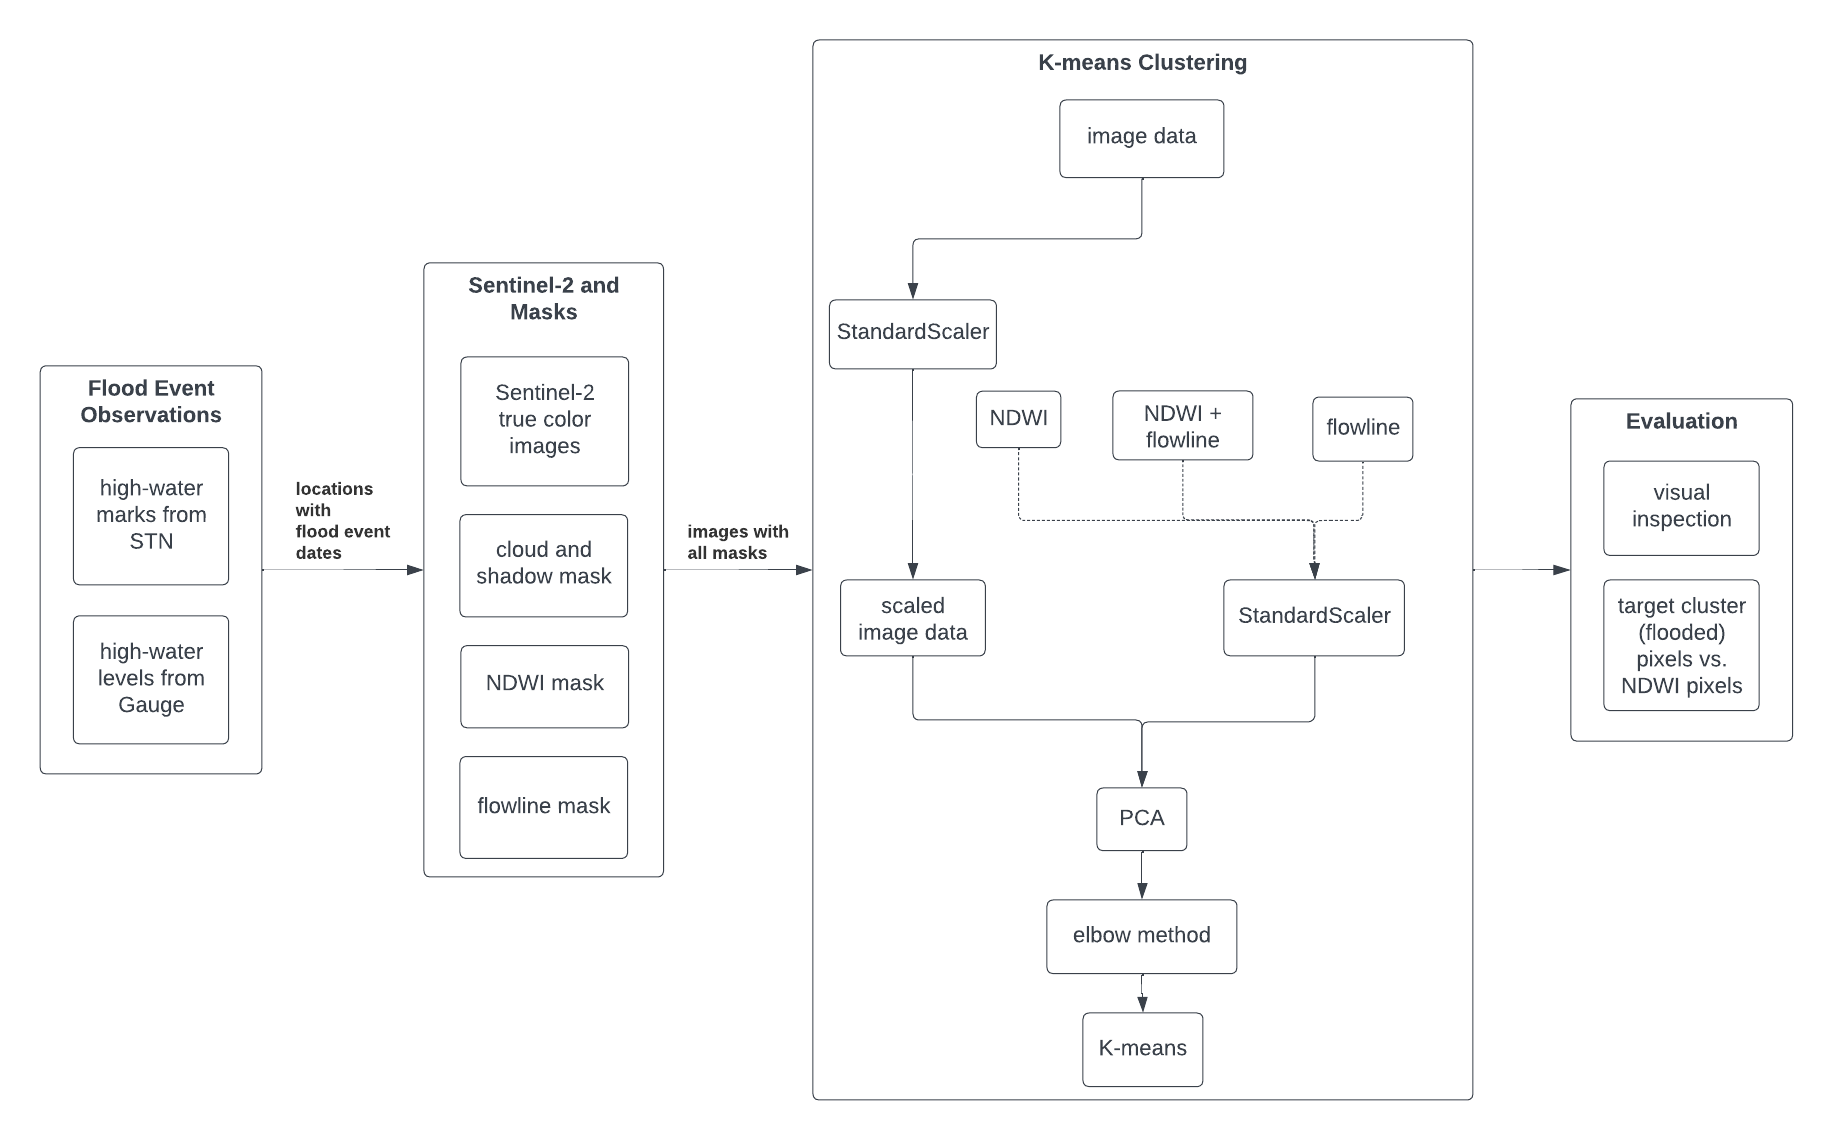
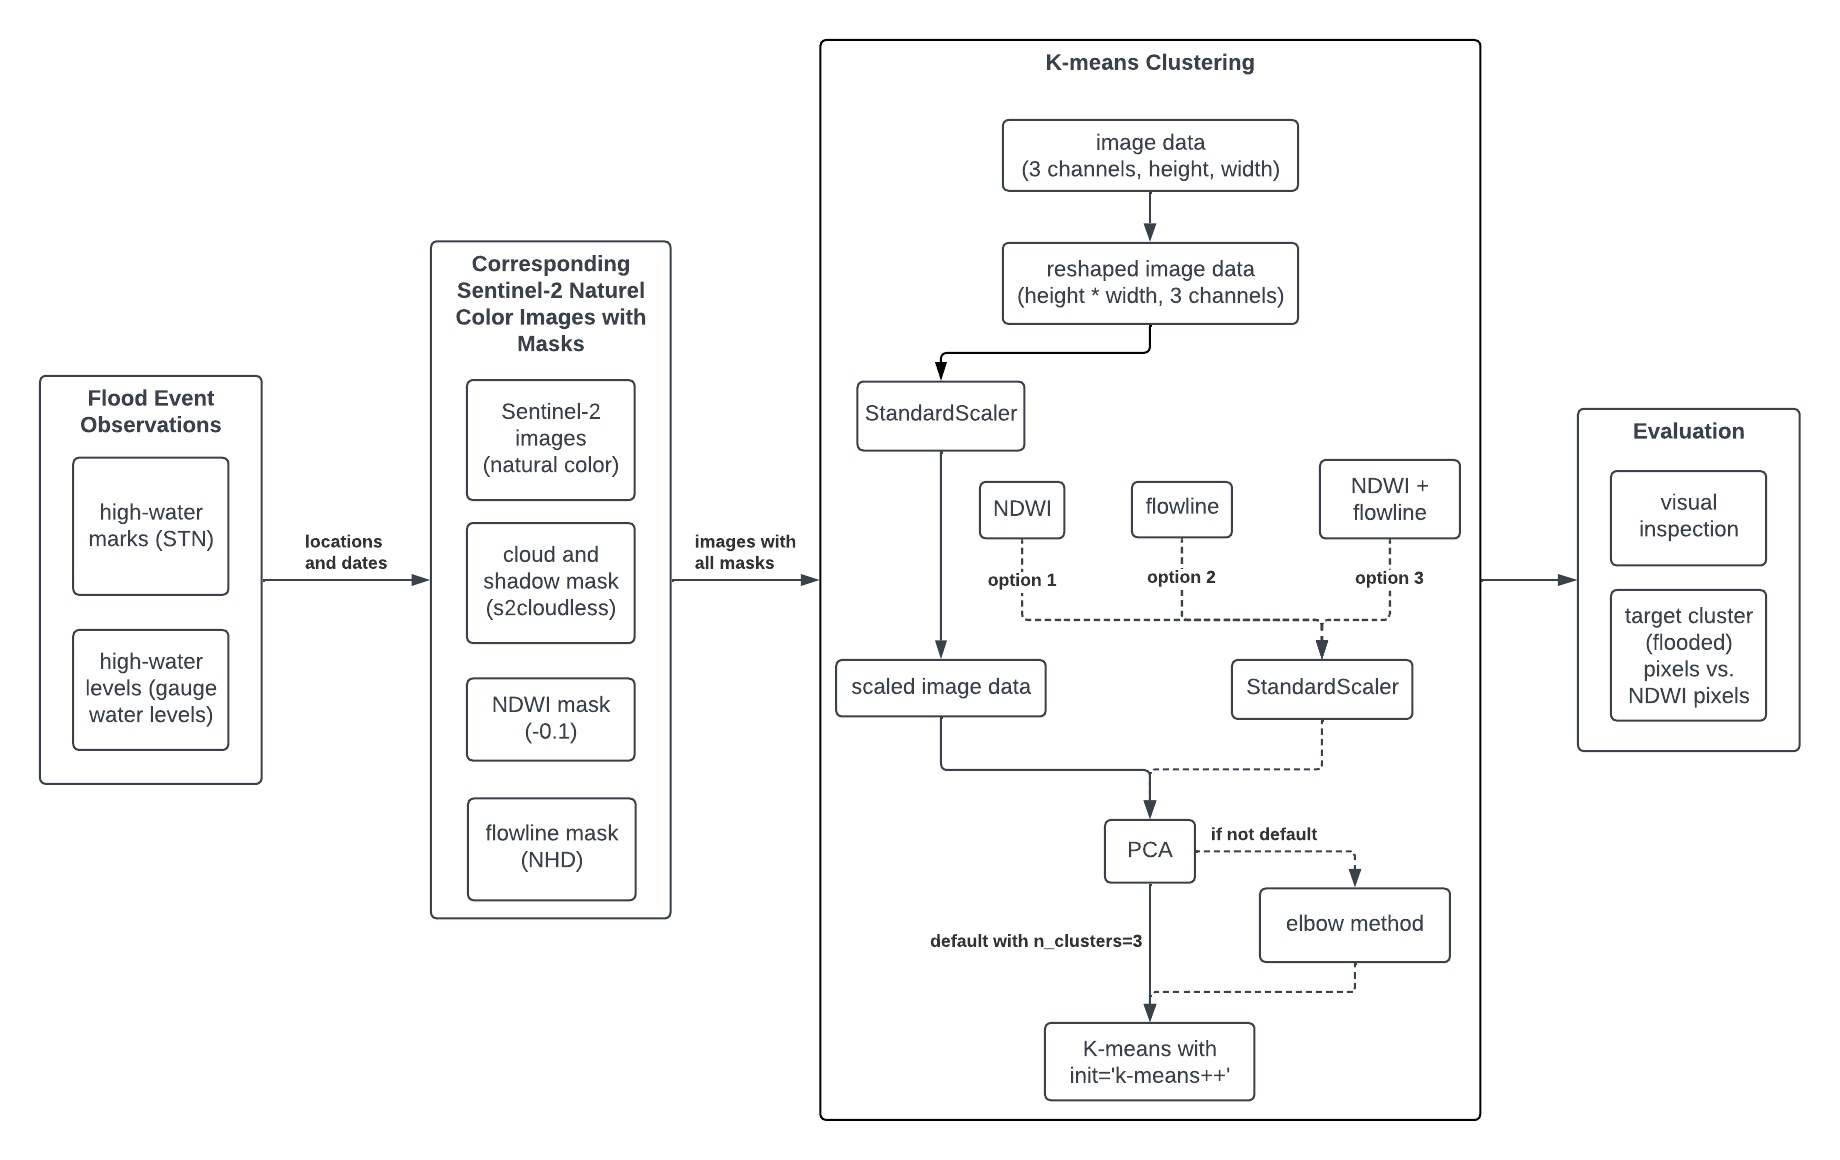
workflow update

diff --git a/src/utils/kmeans_utils.py b/src/utils/kmeans_utils.py
@@ -108,7 +108,7 @@ def add_image_data(df):
             image_path = os.path.join(row['dir'], row['filename'])
             ndwi_path = os.path.join(row['dir_ndwi'], row['filename_ndwi'])
             cloud_path = os.path.join(row['dir_cloud'], row['filename_cloud'])
-            sat_image, bounds, tiff_crs, transform, _  = read_tif(image_path) # shape (3, 1200, 1195) <- (channels, height, width)
+            sat_image, bounds, tiff_crs, transform, _  = read_tif(image_path) # example shape (3, 1201, 1195) <- (channels, height, width)
             ndwi_mask, _, _, _, _ = read_tif(ndwi_path)
             ndwi_mask = global_utils.read_ndwi_tif(ndwi_path)
             ndwi_mask = global_utils.apply_cloud_mask(ndwi_mask, cloud_path)

diff --git a/REPORT.md b/REPORT.md
@@ -1,7 +1,13 @@
-# Report
-This project focus on developing an algorithm for automated assessment of inland flooding from satellite observations. Specifically, this algorithm collects satellite images corresponding to before-, during-, and after-flood events and applies the K-means clustering technique to identify flooded areas. While the project initially targeted Maine, it has been expanded to include other states with similar flood characteristics due to limited observations in Maine.
+# Report - Automated Assessment of Inland Flooding From Satellite Observations
+This project focuses on developing an algorithm for automated assessment of inland flooding from satellite observations. Specifically, this algorithm collects satellite images before/during/after flood events and applies the K-means clustering algorithm to identify flooded areas. Satellite data is a straightforward method for observing flooded areas. Sentinel-2, with its 10-meter resolution, enables detailed analysis. Although weather conditions during flood events can be challenging, this project explores the possibility of utilizing satellite imagery and applying a machine learning algorithm named K-means clustering algorithm to automatically identify flooded areas. Additionally, this approach aims to offer insights into enhancing flood detection using drone measurements.  
 
-The ultimate goal is to enhance the accuracy of flooded area assessments, with potential applications in enhancing flood detection using drone measurements.
+**Area of Interests**: The project initially targeted Maine, but due to limited flood event observations in Maine, it has been expanded to include other states in the New England Region (primarily Vermont) which shares similar flood characteristics.
+
+## Method
+1. Collect flood event data from two sources: high-water marks available through the USGS STN Flood Event Data Portal and high-water levels extracted from real-time gauge data provided by USGS Water Data Services;
+2. Collect satellite images corresponding to before-, during-, and after-flood event data;
+3. Apply the K-means clustering technique to identify flooded areas
+<img src="figs/workflow.png" alt="workflow">
 
 ## Data
 The approach integrates the datasets described in the table below:
@@ -13,12 +19,6 @@ The approach integrates the datasets described in the table below:
 | [Cloud and Shadow](https://developers.google.com/earth-engine/tutorials/community/sentinel-2-s2cloudless) masks | [s2cloudless](https://developers.google.com/earth-engine/tutorials/community/sentinel-2-s2cloudless) | cloud and shadow pixels to be dropped | GeoTIFF | [Report>](REPORT.md)<br>[Guide>](GUIDE.md)<br>[Data>](https://drive.google.com/drive/folders/1HnRyw0KoQEsYrYD9Uid-N08lBs0q-1jo?usp=sharing) |
 | [Normalized Difference Water Index](https://eos.com/make-an-analysis/ndwi/) masks | [Example](https://medium.com/@melqkiades/water-detection-using-ndwi-on-google-earth-engine-2919a9bf1951) | water body pixels defined by NDWI index to refine the algorithm's accuracy | GeoTIFF | [Report>](REPORT.md)<br>[Guide>](GUIDE.md)<br>[Data>](https://drive.google.com/drive/folders/1HnRyw0KoQEsYrYD9Uid-N08lBs0q-1jo?usp=sharing) |
 | [Flowlines](https://www.usgs.gov/ngp-standards-and-specifications/national-hydrography-dataset-nhd-data-dictionary-feature-classes) | [National Hydrography Dataset](https://www.usgs.gov/national-hydrography/access-national-hydrography-products) | Flowing water data used to enhance analysis and improve algorithm performance | Shapefile | 1.[Report>](REPORT.md)<br>[Guide>](GUIDE.md)<br>[Data>](https://drive.google.com/drive/folders/1HnRyw0KoQEsYrYD9Uid-N08lBs0q-1jo?usp=sharing) |
-
-## Method
-1. Collect flood event data from two sources: high-water marks available through the USGS STN Flood Event Data Portal and high-water levels extracted from real-time gauge data provided by USGS Water Data Services;
-2. Collect satellite images corresponding to before-, during-, and after-flood event data;
-3. Apply the K-means clustering technique to identify flooded areas
-<img src="figs/workflow.png" width="800" alt="workflow">
 
 
 ## Result and Discussion
